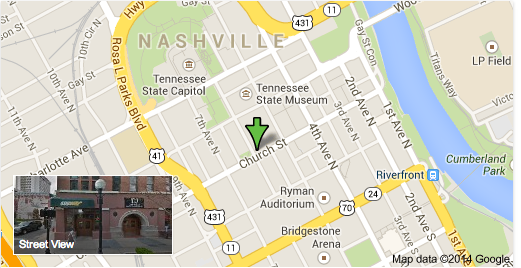
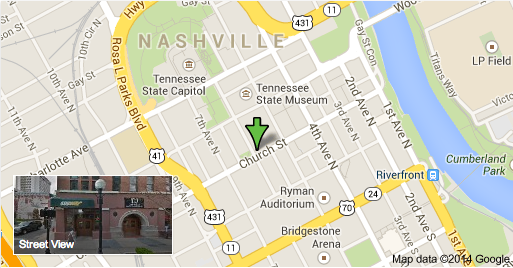
Better landing page layout with map on the right

diff --git a/_includes/intro.html b/_includes/intro.html
@@ -1,14 +1,26 @@
-<div class="content">
-  <p>Our goal is simple: we are technologists that are and want to continue to be
-  involved with the local community. With the ample hack space that we currently
-  have (in-office viking table, shared coworking space), we have room to host
-  meetup groups, hack nights, Nashville Software School study sessions, etc.</p>
+<div class="columns">
+  <div class="column is-offset-1 is-5">
+    <div class="main-intro-text">
+      <p class="goal">Our goal is simple: we are technologists that are and want to
+      continue to be involved with the local community. With the ample hack space
+      that we currently have &mdash; in-office viking table, shared coworking space
+      &mdash; we have room to host meetup groups, hack nights, Nashville Software
+      School study sessions, etc.</p>
 
-  <p>We have room to host ~25-35 people without breaking a sweat, which is difficult to find in general in Nashville. On top of that, we try to capture a bit of the GitHub spirit combined with the BNA team to have a place that reflects a nice place to want to work.</p>
+      <p>We have room to host ~25-35 people without breaking a sweat, which is difficult to find in general in Nashville. On top of that, we try to capture a bit of the GitHub spirit combined with the BNA team to have a place that reflects a nice place to want to work.</p>
 
-  <p>If you're ever in Nashville, know that you have a space to hack, friends to 🍺 with, and of course, that <a href="https://en.wikipedia.org/wiki/Hot_chicken"><span title="hot chicken">🔥&nbsp;🐔</span></a> and 🌆&nbsp;🎵 to soothe your soul.</p>
-
-  <p>We are located at <a href="https://www.google.com/maps/place/530+Church+St+%23400a,+Nashville,+TN+37219/@36.1628687,-86.7835471,17z/data=!3m1!4b1!4m5!3m4!1s0x8864665887aed1c1:0x6eb1daa914b4203f!8m2!3d36.1628644!4d-86.7813584">530 Church St, Suite 400a, Nashville, TN, 37219</a>:</p>
-
-  <p><a href="https://www.google.com/maps/place/530+Church+St+%23400a,+Nashville,+TN+37219/@36.1628687,-86.7835471,17z/data=!3m1!4b1!4m5!3m4!1s0x8864665887aed1c1:0x6eb1daa914b4203f!8m2!3d36.1628644!4d-86.7813584"><img src="{{ site.baseurl }}/images/map.png" alt="Map of the Bikeshed" width="521" height="268"></a></p>
+      <p>If you're ever in Nashville, know that you have a space to hack, friends to 🍺 with, and of course, that <a href="https://en.wikipedia.org/wiki/Hot_chicken"><span title="hot chicken">🔥&nbsp;🐔</span></a> and 🌆&nbsp;🎵 to soothe your soul.</p>
+    </div>
+  </div>
+  <div class="column">
+    <div class="card map-card">
+      <div class="card-image">
+        <a href="https://www.google.com/maps/place/530+Church+St+%23400a,+Nashville,+TN+37219/@36.1628687,-86.7835471,17z/data=!3m1!4b1!4m5!3m4!1s0x8864665887aed1c1:0x6eb1daa914b4203f!8m2!3d36.1628644!4d-86.7813584"><img src="{{ site.baseurl }}/images/map.png" alt="Map of the Bikeshed" width="513" height="268"></a>
+      </div>
+      <div class="card-content">
+        We are located at:<br>
+        <a href="https://www.google.com/maps/place/530+Church+St+%23400a,+Nashville,+TN+37219/@36.1628687,-86.7835471,17z/data=!3m1!4b1!4m5!3m4!1s0x8864665887aed1c1:0x6eb1daa914b4203f!8m2!3d36.1628644!4d-86.7813584">530 Church St, Suite 400a<br>Nashville, TN, 37219</a>
+      </div>
+    </div>
+  </div>
 </div>

diff --git a/_includes/header.html b/_includes/header.html
@@ -1,7 +1,7 @@
 <header class="header site-header">
   <div class="container">
     <div class="columns">
-      <div class="column is-one-third is-offset-2">
+      <div class="column is-5 is-offset-1">
         <a class="title" href="{{ site.baseurl }}/">
           {{ site.title }}
         </a>
@@ -12,7 +12,7 @@
           </a>
         {% endif %}
       </div>
-      <div class="column is-one-third has-text-right">
+      <div class="column is-5 has-text-right">
         <nav class="site-nav">
           {% for my_page in site.pages %}
             {% if my_page.title %}

diff --git a/index.html b/index.html
@@ -2,9 +2,10 @@
 layout: default
 ---
 
+{% include intro.html %}
+
 <div class="columns">
   <div class="column is-half is-offset-one-quarter">
-    {% include intro.html %}
     {% if site.posts.size > 0 %}
       <h2 class="subtitle">Updates</h2>
       <ul class="post-list">

diff --git a/_layouts/default.html b/_layouts/default.html
@@ -4,7 +4,7 @@
   <body>
     {% include header.html %}
     <section class="section">
-      <div class="container">
+      <div class="container content">
         {{ content }}
       </div>
     </section>

diff --git a/css/main.scss b/css/main.scss
@@ -180,3 +180,15 @@ body,
     }
   }
 }
+
+.goal {
+  font-size: 18px;
+}
+
+.card.map-card {
+  width: 513px;
+}
+
+.main-intro-text {
+  padding-right: 40px;
+}
